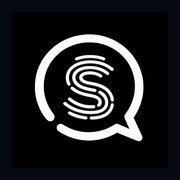
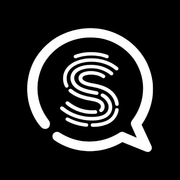
fix(site): знак без фона — белый в тёмной теме, чёрный в светлой; скруглённые иконки
- Шапка и подвал: вместо чёрного квадрата logo.png (в светлой теме он был
  виден целиком) и чужого значка Icons8 в подвале — наш знак (пузырь +
  отпечаток «S») маской, цвет из токена --logo-ink: #fff / #16120e (как
  надпись рядом). mix-blend-mode и --logo-blend убраны. Слоты прежние
  (46 и 28 px), сам знак ≈ 32 и 23 px — как было.
- public/brand/mark.png — мастер знака: белый на прозрачном, вырезан из
  иконки iOS 1024 (яркость → прозрачность, без ореола исходника).
- Иконки из мастера: фавиконки 16/32 и PWA 192/512 — чёрная скруглённая
  плитка с прозрачными углами; apple-touch 180 и maskable 512 — во весь
  квадрат (углы режет система), у maskable знак целиком в безопасном круге.
  Плюс favicon.svg: только знак, чёрный или белый по теме браузера.
- scripts/gen-assets.cjs строит иконки из мастера; --mark <png> вырезает
  мастер заново.

Changed region(s): [[0.1389, 0.1389, 0.8611, 0.8611]]

diff --git a/src/index.css b/src/index.css
@@ -40,7 +40,7 @@
   --grid-line:   rgba(255, 255, 255, 0.035);
   --hover-soft:  rgba(255, 255, 255, 0.05);
   --icon-filter: brightness(0) invert(1);
-  --logo-blend:  screen;
+  --logo-ink:    #ffffff;
   --stat-grad:   #ffffff;
   --shadow-strong: rgba(0, 0, 0, 0.42);
   --sheen:       rgba(255, 255, 255, 0.28);
@@ -80,7 +80,7 @@
   --grid-line:   rgba(22, 18, 14, 0.045);
   --hover-soft:  rgba(22, 18, 14, 0.045);
   --icon-filter: brightness(0) saturate(0) opacity(0.75);
-  --logo-blend:  normal;
+  --logo-ink:    #16120e;
   --stat-grad:   #16120e;
   --shadow-strong: rgba(22, 18, 14, 0.14);
   --sheen:       rgba(255, 255, 255, 0.7);
@@ -922,6 +922,18 @@ h1, h2, h3, h4, h5, h6 {
 }
 
 /* ────────────────────────────────────────────────────────────
+   BRAND MARK — знак без подложки (components/LogoMark.tsx)
+   Форма — маска (белый знак на прозрачном), цвет — --logo-ink.
+   ──────────────────────────────────────────────────────────── */
+.logo-mark {
+  display: inline-block;
+  flex-shrink: 0;
+  background-color: var(--logo-ink);
+  -webkit-mask: url('/brand/mark.png') center / contain no-repeat;
+          mask: url('/brand/mark.png') center / contain no-repeat;
+}
+
+/* ────────────────────────────────────────────────────────────
    NAVBAR
    ──────────────────────────────────────────────────────────── */
 .navbar {
@@ -957,8 +969,9 @@ h1, h2, h3, h4, h5, h6 {
 .navbar__logo-icon {
   width: 46px;
   height: 46px;
-  mix-blend-mode: var(--logo-blend);
-  opacity: 1;
+  /* знак ≈ 32 px — как на прежней картинке, где он занимал 70 % плитки */
+  -webkit-mask-size: 75%;
+          mask-size: 75%;
 }
 .navbar__nav {
   display: flex;
@@ -1072,8 +1085,9 @@ h1, h2, h3, h4, h5, h6 {
 .footer__logo-icon {
   width: 28px;
   height: 28px;
-  filter: var(--icon-filter);
-  opacity: 0.9;
+  /* знак ≈ 23 px — размер прежнего значка в подвале */
+  -webkit-mask-size: 87%;
+          mask-size: 87%;
 }
 .footer__tagline {
   font-size: 14px;

diff --git a/src/components/LogoMark.tsx b/src/components/LogoMark.tsx
@@ -1,0 +1,17 @@
+/* Знак Secretly — пузырь с отпечатком «S» — без подложки.
+   Форма — маска /brand/mark.png (белый знак на прозрачном: важна только
+   прозрачность), цвет — токен --logo-ink: белый в тёмной теме, чёрный в
+   светлой. Размер слота задаёт className. Мастер и иконки из него —
+   scripts/gen-assets.cjs. */
+type Props = {
+  className?: string
+  /** Рядом уже написано «Secretly» — знак не озвучивать второй раз. */
+  decorative?: boolean
+}
+
+export default function LogoMark({ className, decorative = false }: Props) {
+  const cls = className ? `logo-mark ${className}` : 'logo-mark'
+  return decorative
+    ? <span className={cls} aria-hidden="true" />
+    : <span className={cls} role="img" aria-label="Secretly" />
+}

diff --git a/src/components/Navbar.tsx b/src/components/Navbar.tsx
@@ -3,6 +3,7 @@ import { Link, useLocation } from 'react-router-dom'
 import { useTranslation } from 'react-i18next'
 import i18n, { LANGUAGES } from '../i18n'
 import ThemeToggle from './ThemeToggle'
+import LogoMark from './LogoMark'
 
 export default function Navbar() {
   const [scrolled,    setScrolled]    = useState(false)
@@ -55,7 +56,7 @@ export default function Navbar() {
         <div className="container">
           <div className="navbar__inner">
             <Link to="/" className="navbar__logo">
-              <img src="/logo.png" alt="Secretly" className="navbar__logo-icon" />
+              <LogoMark className="navbar__logo-icon" decorative />
               Secretly
             </Link>
 

diff --git a/src/components/Footer.tsx b/src/components/Footer.tsx
@@ -1,5 +1,6 @@
 import { Link } from 'react-router-dom'
 import { SITE } from '../config'
+import LogoMark from './LogoMark'
 
 const PRODUCT_LINKS = [
   { label: 'Features',  to: '/features' },
@@ -33,7 +34,7 @@ export default function Footer() {
           {/* Brand col */}
           <div className="footer__brand">
             <Link to="/" className="footer__logo">
-              <img src="/icons/chat.png" alt="" className="footer__logo-icon" />
+              <LogoMark className="footer__logo-icon" decorative />
               Secretly
             </Link>
             <p className="footer__tagline">

diff --git a/index.html b/index.html
@@ -29,6 +29,8 @@
     </script>
     <link rel="icon" type="image/png" sizes="32x32" href="/favicon-32.png" />
     <link rel="icon" type="image/png" sizes="16x16" href="/favicon-16.png" />
+    <!-- Glyph only, black/white by the browser's colour scheme; PNGs above are the fallback -->
+    <link rel="icon" type="image/svg+xml" href="/favicon.svg" />
     <link rel="apple-touch-icon" sizes="180x180" href="/apple-touch-icon.png" />
     <link rel="manifest" href="/manifest.json" />
 
